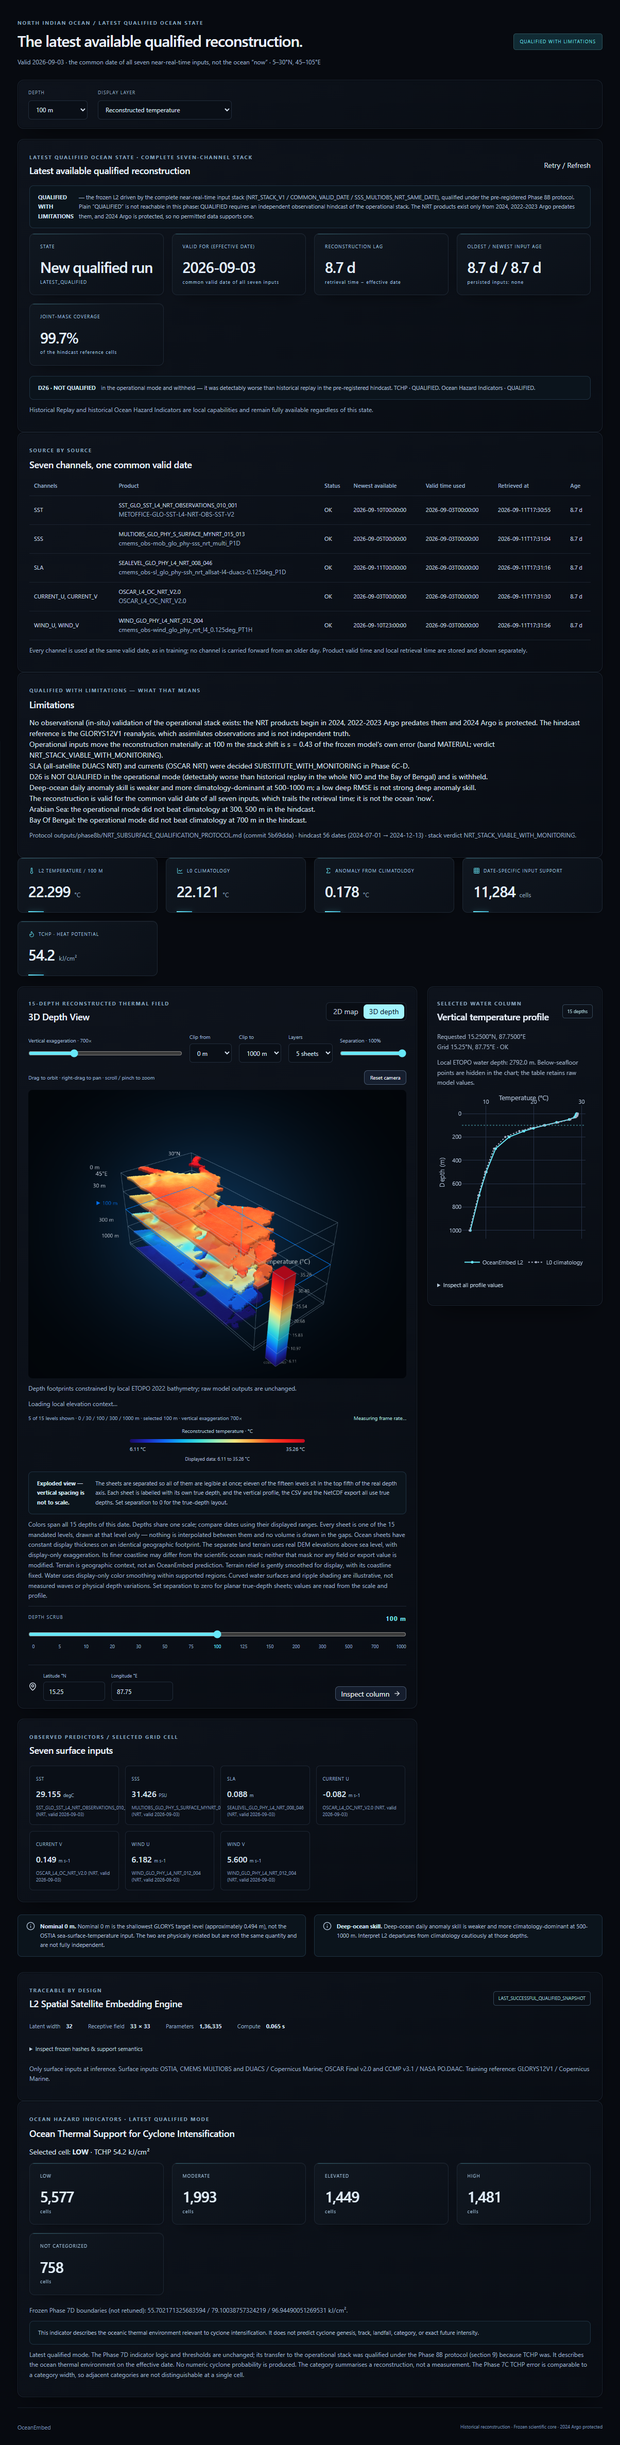
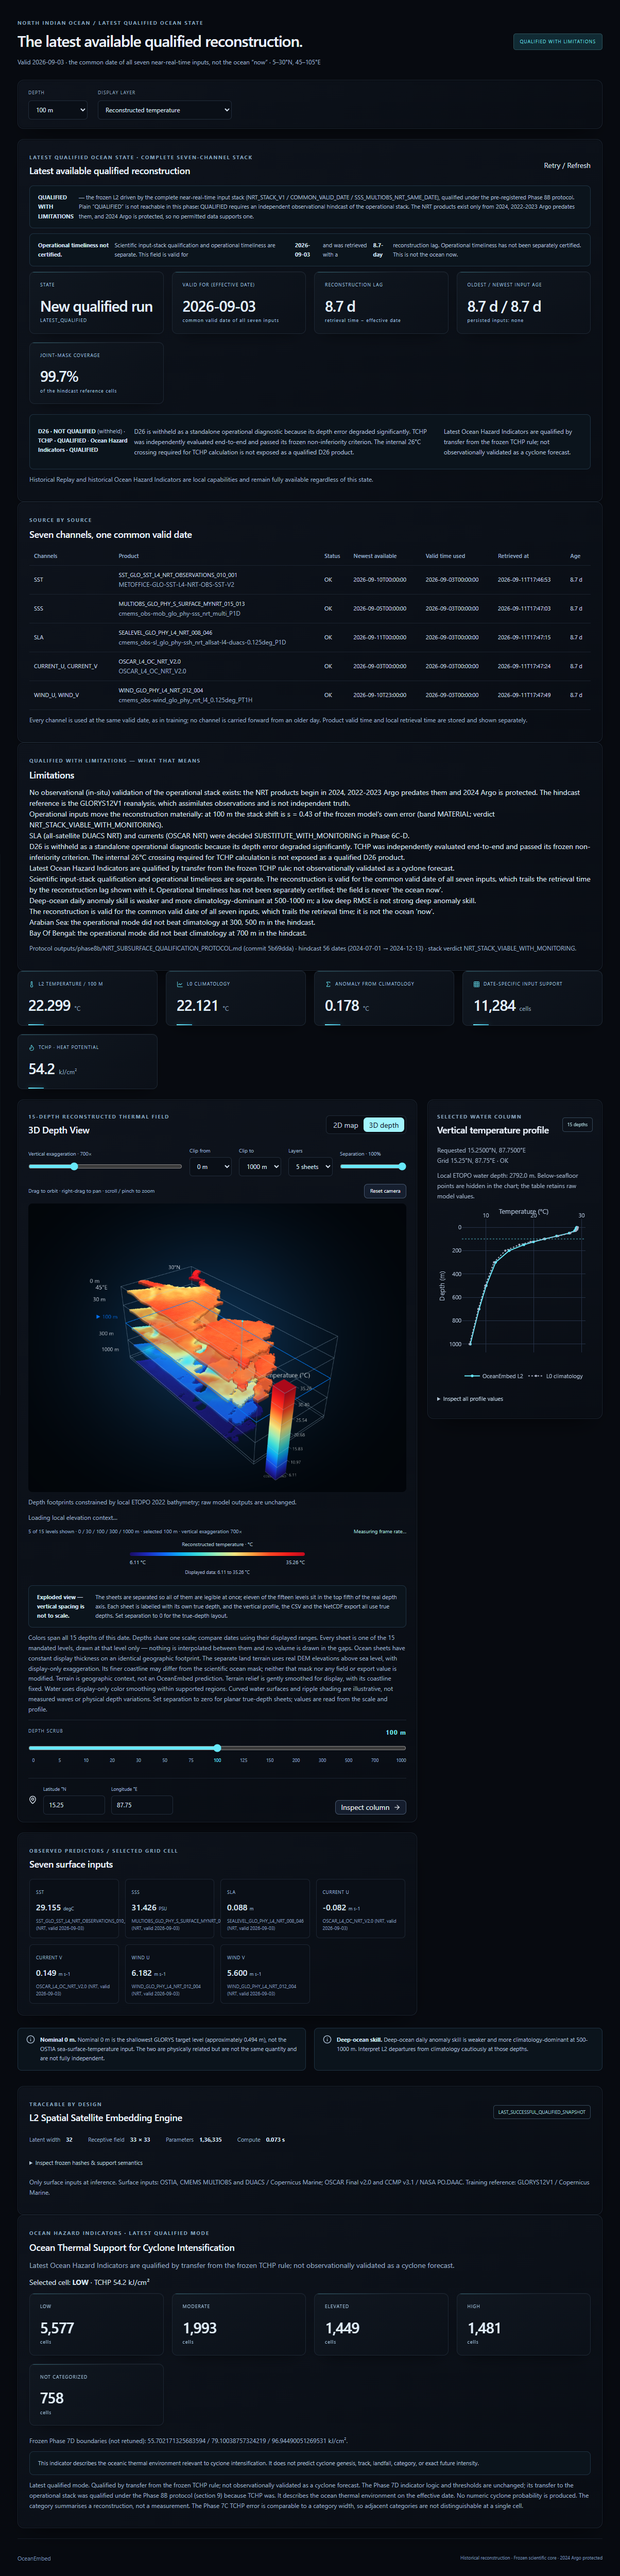
Phase 8B hardening: separate timeliness from qualification, explain D26/TCHP, hazard-transfer wording, tolerance-based bathymetry regeneration check
Wording and one test only. Committed bathymetry source and depth.bin stay SHA-pinned; regeneration compared within 1e-4 m. No gate, product, SSS policy, threshold, equation, asset, renderer or model change. Suite 837/837.

diff --git a/web/src/components/LatestQualified.tsx b/web/src/components/LatestQualified.tsx
@@ -40,6 +40,9 @@ export interface Qualification {
   protocol: string;
   protocol_commit?: string;
   qualified_unreachable_reason?: string;
+  timeliness_note?: string;
+  d26_tchp_explanation?: string;
+  hazard_transfer_note?: string;
 }
 interface Source {
   product_key: string;
@@ -152,6 +155,22 @@ export default function LatestQualified({
           {qualification.qualified_unreachable_reason}
         </p>
 
+        {payload?.effective_date && (
+          <p className="notice" data-testid="timeliness-note">
+            <strong>Operational timeliness not certified.</strong> Scientific
+            input-stack qualification and operational timeliness are separate.
+            This field is valid for <strong>{payload.effective_date}</strong> and
+            was retrieved with a{" "}
+            <strong>
+              {m.reconstruction_lag_hours == null
+                ? "—"
+                : `${(m.reconstruction_lag_hours / 24).toFixed(1)}-day`}
+            </strong>{" "}
+            reconstruction lag. Operational timeliness has not been separately
+            certified. This is not the ocean now.
+          </p>
+        )}
+
         {busy && (
           <p className="muted small" role="status" data-testid="latest-busy">
             Retrieving all seven inputs for their common valid date. Nothing is
@@ -236,12 +255,19 @@ export default function LatestQualified({
           </div>
         </div>
 
-        <p className="notice" data-testid="d26-withheld">
-          <strong>D26 · {qualification.d26_category}</strong> in the operational
-          mode and withheld — it was detectably worse than historical replay in
-          the pre-registered hindcast. TCHP · {qualification.tchp_category}.
-          Ocean Hazard Indicators · {qualification.latest_hazard_indicators}.
-        </p>
+        <div className="notice" data-testid="d26-withheld">
+          <p>
+            <strong>D26 · {qualification.d26_category}</strong> (withheld) ·{" "}
+            <strong>TCHP · {qualification.tchp_category}</strong> ·{" "}
+            <strong>
+              Ocean Hazard Indicators · {qualification.latest_hazard_indicators}
+            </strong>
+          </p>
+          <p className="small">{qualification.d26_tchp_explanation}</p>
+          <p className="small" data-testid="hazard-transfer-note">
+            {qualification.hazard_transfer_note}
+          </p>
+        </div>
         <p className="muted small">
           Historical Replay and historical Ocean Hazard Indicators are local
           capabilities and remain fully available regardless of this state.
@@ -322,9 +348,11 @@ export default function LatestQualified({
 export function LatestHazardPanel({
   field,
   selection,
+  note,
 }: {
   field: FieldView;
   selection: Selection;
+  note?: string;
 }) {
   const h = field.hazard;
   if (!h) return null;
@@ -333,6 +361,11 @@ export function LatestHazardPanel({
     <section className="panel" data-testid="latest-hazard">
       <span className="eyebrow">OCEAN HAZARD INDICATORS · LATEST QUALIFIED MODE</span>
       <h2>{h.indicator}</h2>
+      {note && (
+        <p className="muted" data-testid="latest-hazard-transfer">
+          {note}
+        </p>
+      )}
       <p>
         Selected cell:{" "}
         <strong data-testid="latest-hazard-level">

diff --git a/web/e2e/latestQualified.spec.ts b/web/e2e/latestQualified.spec.ts
@@ -43,6 +43,19 @@ test("the tab name and every qualified claim come from the decision artifact", a
     "QUALIFIED WITH LIMITATIONS",
   );
   await expect(page.getByTestId("d26-withheld")).toContainText("NOT QUALIFIED");
+  // Hardening: the three human-facing statements are shown, with the real
+  // valid date and lag, and qualification is never passed off as timeliness.
+  const lagDays = (cached.meta.reconstruction_lag_hours / 24).toFixed(1);
+  const tl = page.getByTestId("timeliness-note");
+  await expect(tl).toContainText("Operational timeliness has not been separately certified");
+  await expect(tl).toContainText(`valid for ${cached.effective_date}`);
+  await expect(tl).toContainText(`${lagDays}-day reconstruction lag`);
+  await expect(page.getByTestId("d26-withheld")).toContainText(
+    "not exposed as a qualified D26 product",
+  );
+  await expect(page.getByTestId("hazard-transfer-note")).toContainText(
+    "not observationally validated as a cyclone forecast",
+  );
   await expect(page.getByTestId("limitations")).toContainText("observational");
   await expect(page.getByTestId("effective-date")).toContainText(cached.effective_date);
   await expect(page.locator('[data-testid="latest-sources"] tbody tr')).toHaveCount(5);
@@ -86,6 +99,9 @@ test("the latest field is drawn by the SAME map, 3D renderer and profile, unchan
   await expect(page.getByTestId("depth-renderer")).toBeVisible();
 
   await expect(page.getByTestId("latest-hazard")).toContainText("does not predict");
+  await expect(page.getByTestId("latest-hazard-transfer")).toContainText(
+    "not observationally validated as a cyclone forecast",
+  );
   await page.locator("main").screenshot({ path: "../outputs/phase8b/latest-qualified.png" });
 });
 

diff --git a/web/src/App.tsx b/web/src/App.tsx
@@ -1044,7 +1044,11 @@ export default function App() {
                       )}
                       {latestMode && (
                         <Suspense fallback={null}>
-                          <LatestHazardPanel field={f} selection={selection} />
+                          <LatestHazardPanel
+                            field={f}
+                            selection={selection}
+                            note={qual?.hazard_transfer_note}
+                          />
                         </Suspense>
                       )}
                     </>

diff --git a/src/oceanembed/nrt/latest.py b/src/oceanembed/nrt/latest.py
@@ -82,6 +82,23 @@ NOT_QUALIFIED_LABEL = "LATEST SUBSURFACE RECONSTRUCTION NOT QUALIFIED"
 QUALIFIED_TAB = "Latest Qualified Ocean State"
 UNQUALIFIED_TAB = "Latest Inputs"
 
+#: Human-facing statements added in the Phase 8B hardening pass. They explain
+#: the frozen results; they change no category, gate or threshold.
+TIMELINESS_NOTE = (
+    "Scientific input-stack qualification and operational timeliness are separate. "
+    "The reconstruction is valid for the common valid date of all seven inputs, "
+    "which trails the retrieval time by the reconstruction lag shown with it. "
+    "Operational timeliness has not been separately certified; the field is never "
+    "'the ocean now'.")
+D26_TCHP_EXPLANATION = (
+    "D26 is withheld as a standalone operational diagnostic because its depth error "
+    "degraded significantly. TCHP was independently evaluated end-to-end and passed "
+    "its frozen non-inferiority criterion. The internal 26°C crossing required for "
+    "TCHP calculation is not exposed as a qualified D26 product.")
+HAZARD_TRANSFER_NOTE = (
+    "Latest Ocean Hazard Indicators are qualified by transfer from the frozen TCHP "
+    "rule; not observationally validated as a cyclone forecast.")
+
 CLIMATOLOGY_NOTE = (
     "isfinite(climatology) records CLIMATOLOGY DEPTH-SUPPORT availability - where "
     "the frozen L0 has coefficients. It is NOT a bathymetry product and NOT an "
@@ -142,8 +159,9 @@ def qualification_summary(path: Path | None = None) -> dict:
         f"{d['stack_verdict']}).",
         "SLA (all-satellite DUACS NRT) and currents (OSCAR NRT) were decided "
         "SUBSTITUTE_WITH_MONITORING in Phase 6C-D.",
-        "D26 is NOT QUALIFIED in the operational mode (detectably worse than "
-        "historical replay in the whole NIO and the Bay of Bengal) and is withheld.",
+        D26_TCHP_EXPLANATION,
+        HAZARD_TRANSFER_NOTE,
+        TIMELINESS_NOTE,
         "Deep-ocean daily anomaly skill is weaker and more climatology-dominant at "
         "500-1000 m; a low deep RMSE is not strong deep anomaly skill.",
         "The reconstruction is valid for the common valid date of all seven inputs, "
@@ -166,6 +184,9 @@ def qualification_summary(path: Path | None = None) -> dict:
         "qualified_reachable_in_8b": d.get("qualified_reachable_in_8b", False),
         "qualified_unreachable_reason": d.get("qualified_unreachable_reason"),
         "limitations": limitations if ok else [],
+        "timeliness_note": TIMELINESS_NOTE,
+        "d26_tchp_explanation": D26_TCHP_EXPLANATION,
+        "hazard_transfer_note": HAZARD_TRANSFER_NOTE,
         "policy": POLICY,
         "products": {k: PRODUCTS[k]["dataset_id"] for k in PRODUCT_CHANNELS},
         "stack_verdict": d.get("stack_verdict"),

diff --git a/tests/test_display_bathymetry.py b/tests/test_display_bathymetry.py
@@ -24,12 +24,31 @@ def test_bathymetry_rejects_unknown_sign():
     import pytest
     with pytest.raises(ValueError): module.regrid_depth(xr.DataArray([1]))
 
+#: Regeneration tolerance, metres. One tenth of a millimetre: far below ETOPO's
+#: vertical resolution and irrelevant at the 0.25 deg application grid.
+REGEN_ATOL_M = 1e-4
+
 def test_local_bundle_reproducible_and_same_terrain_source():
+    """Two different claims, checked two different ways.
+
+    Artifact identity: the committed ETOPO source and the committed depth.bin
+    are pinned by EXACT SHA-256, so the bundle the app ships cannot change.
+
+    Reproducibility: re-running the regrid on another run or environment can
+    differ at floating-point / library level (observed <= 1.06e-5 m), so the
+    regenerated field is compared numerically - identical NaN pattern, values
+    within REGEN_ATOL_M - rather than byte for byte.
+    """
     import json,hashlib
-    with xr.open_dataset(module.SOURCE) as ds: depth=module.regrid_depth(ds.z)
-    actual=np.asarray(depth,dtype="<f8").tobytes()
     out=ROOT/"web/public/assets/bathymetry"
-    assert actual==(out/"depth.bin").read_bytes()
     meta=json.loads((out/"metadata.json").read_text())
+    stored_bytes=(out/"depth.bin").read_bytes()
     assert hashlib.sha256(module.SOURCE.read_bytes()).hexdigest()==meta["sourceSha256"]
-    assert hashlib.sha256(actual).hexdigest()==meta["depthSha256"]
+    assert hashlib.sha256(stored_bytes).hexdigest()==meta["depthSha256"]
+
+    with xr.open_dataset(module.SOURCE) as ds: depth=module.regrid_depth(ds.z)
+    actual=np.asarray(depth,dtype="<f8").ravel()
+    stored=np.frombuffer(stored_bytes,dtype="<f8")
+    assert actual.shape==stored.shape
+    np.testing.assert_array_equal(np.isnan(actual),np.isnan(stored))
+    np.testing.assert_allclose(actual,stored,rtol=0,atol=REGEN_ATOL_M,equal_nan=True)

diff --git a/tests/test_phase8b_latest.py b/tests/test_phase8b_latest.py
@@ -294,6 +294,16 @@ class TestApi:
         assert q["tab_name"] == "Latest Qualified Ocean State"
         assert q["d26_category"] == "NOT QUALIFIED"
         assert any("observational" in x for x in q["limitations"])
+        # Hardening: qualification, timeliness, D26/TCHP and hazard transfer are
+        # stated as separate claims, and none widens a frozen category.
+        assert "Operational timeliness has not been separately certified" in \
+            q["timeliness_note"]
+        assert "not exposed as a qualified D26 product" in q["d26_tchp_explanation"]
+        assert "not observationally validated as a cyclone forecast" in \
+            q["hazard_transfer_note"]
+        for note in (q["timeliness_note"], q["d26_tchp_explanation"],
+                     q["hazard_transfer_note"]):
+            assert note in q["limitations"]
 
     def test_live_payload_uses_the_historical_transport(self, client):
         p = client.get("/api/latest/qualified").json()
@@ -307,6 +317,9 @@ class TestApi:
         assert all(v is None for row in f["diagnostics"]["d26_m"] for v in row)
         assert any(v is not None for row in f["diagnostics"]["tchp_kj_cm2"] for v in row)
         assert "does not predict" in f["hazard"]["non_prediction_statement"].lower()
+        assert f["hazard"]["scope_note"].startswith(
+            "Latest qualified mode. Qualified by transfer from the frozen TCHP rule; "
+            "not observationally validated as a cyclone forecast.")
         assert "probability" not in json.dumps(f["hazard"]["category_counts"]).lower()
         assert f["provenance"]["operating_mode"] == LQ.OPERATING_MODE
         assert set(f["surface_inputs"]) == {"sst", "sss", "sla", "current_u",

diff --git a/src/oceanembed/poc/app.py b/src/oceanembed/poc/app.py
@@ -376,9 +376,11 @@ def latest(region: bool = True) -> dict:
 
 # ------------------------------------------------------------------ Phase 8B
 LATEST_HAZARD_SCOPE = (
-    "Latest qualified mode. The Phase 7D indicator logic and thresholds are "
-    "unchanged; its transfer to the operational stack was qualified under the "
-    "Phase 8B protocol (section 9) because TCHP was. It describes the ocean "
+    "Latest qualified mode. Qualified by transfer from the frozen TCHP rule; not "
+    "observationally validated as a cyclone forecast. The Phase 7D indicator logic "
+    "and thresholds are unchanged; its transfer to the operational stack was "
+    "qualified under the Phase 8B protocol (section 9) because TCHP was. It "
+    "describes the ocean "
     "thermal environment on the effective date. No numeric cyclone probability "
     "is produced.")
 
